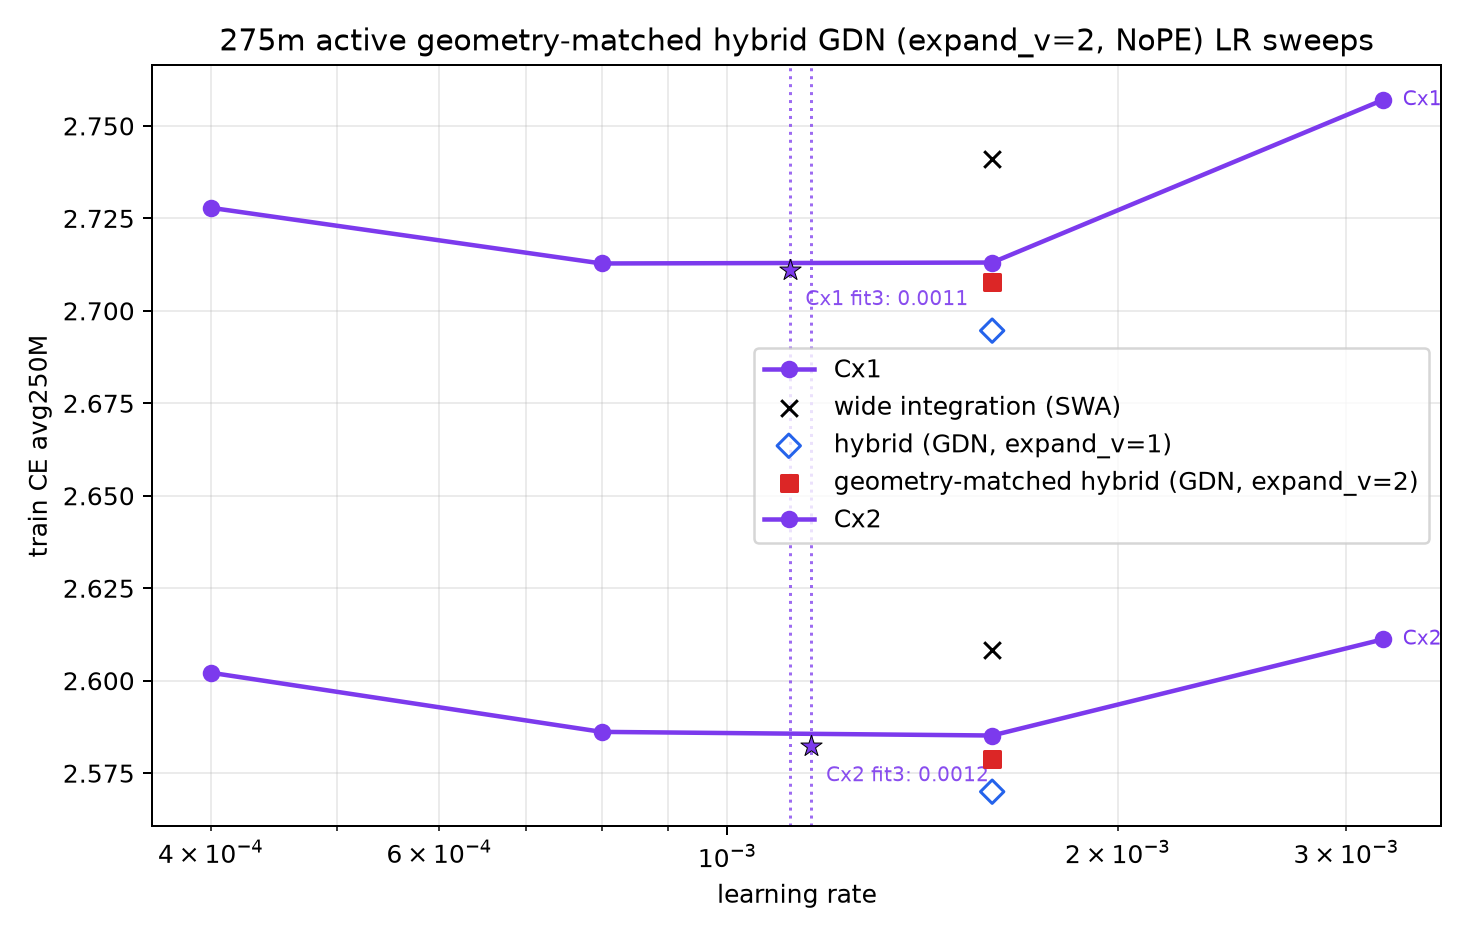
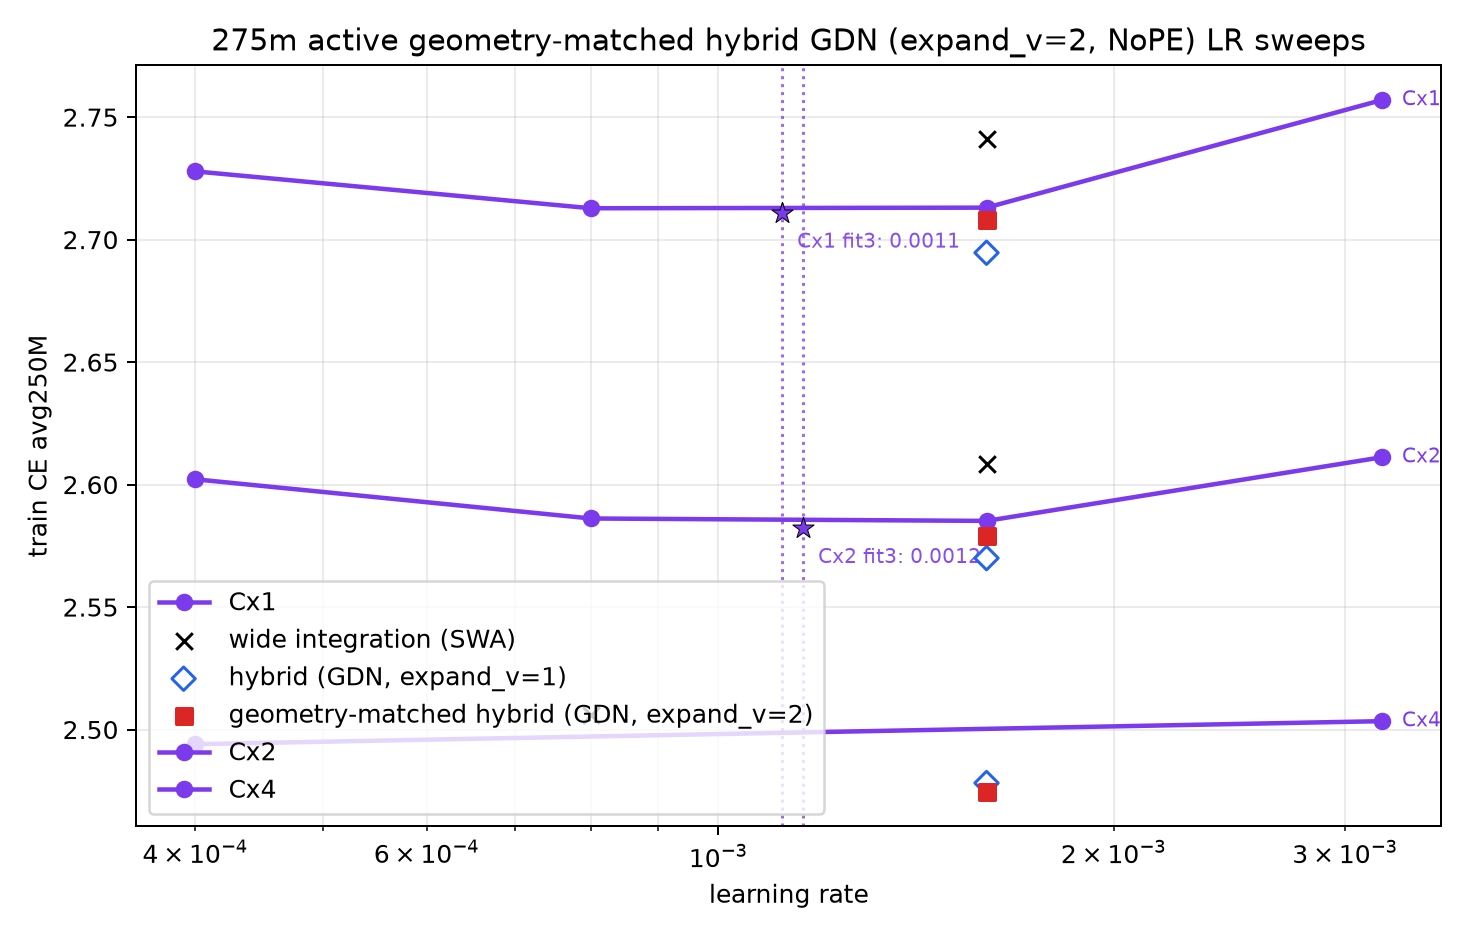
Record precision ablations and refresh NoPE results

diff --git a/src/scripts/train/jacobm_olmoe_ladder/v2/RUNS.md b/src/scripts/train/jacobm_olmoe_ladder/v2/RUNS.md
@@ -415,13 +415,14 @@ Cx1/2/4/8, requesting 80 B300s at full concurrency.
 The production sweep was submitted on 2026-07-18 as urgent unallocated work:
 [01KXSABHBX2Z4G1JFV8W1PN6AN](https://beaker.org/orgs/ai2/workspaces/OLMo-3-moe-experiments/work/01KXSABHBX2Z4G1JFV8W1PN6AN).
 
-Status at 2026-07-18 05:57 UTC: all 16 tasks started successfully and none
+Status at 2026-07-18 06:39 UTC: all 16 tasks started successfully and none
 failed. All eight Cx1/Cx2 runs are finished. Cx1's observed interior best is
 `8e-4` at strict final-250M CE `2.712805`; Cx2's is `1.6e-3` at
 `2.585179`. Against the otherwise-identical RoPE geometry family, these are
-`+0.004924` and `+0.006217` CE, respectively. The Cx4 runs are
-83.9-90.4% complete and Cx8 is 81.3-82.4%. The updated U-plot and
-observed-best summary are under
+`+0.004924` and `+0.006217` CE, respectively. Cx4 `4e-4` and `3.2e-3`
+finished at `2.494023` and `2.503428`; its two interior LRs are still running,
+so no observed or fitted optimum is valid yet. All four Cx8 runs are still
+running. The updated U-plot and observed-best summary are under
 [`plots/pretraining/geometry_gdn_ev2_nope/`](plots/pretraining/geometry_gdn_ev2_nope/).
 
 | Cx | LR | GPUs | MB | Accum | Job | W&B | Status |
@@ -434,10 +435,10 @@ observed-best summary are under
 | 2 | `8e-4` | 4 | 12 | 1 | [01KXSABJ2YNA80PFV3FHAKMRZK](https://beaker.org/orgs/ai2/workspaces/OLMo-3-moe-experiments/work/01KXSABHBX2Z4G1JFV8W1PN6AN?taskId=01KXSABHZEYSF5QY7MJP0DWCX9&jobId=01KXSABJ2YNA80PFV3FHAKMRZK) | [7u4epzt6](https://wandb.ai/ai2-llm/jacobm-olmoe-ladder/runs/7u4epzt6) | finished |
 | 2 | `1.6e-3` | 4 | 12 | 1 | [01KXSABJ68WBX4TVSTR56BVZ1A](https://beaker.org/orgs/ai2/workspaces/OLMo-3-moe-experiments/work/01KXSABHBX2Z4G1JFV8W1PN6AN?taskId=01KXSABJ34R4AE29AGHGXP65NN&jobId=01KXSABJ68WBX4TVSTR56BVZ1A) | [gjmz37ct](https://wandb.ai/ai2-llm/jacobm-olmoe-ladder/runs/gjmz37ct) | finished; observed best |
 | 2 | `3.2e-3` | 4 | 12 | 1 | [01KXSABJBS8QP3R5HEMG6JSWEN](https://beaker.org/orgs/ai2/workspaces/OLMo-3-moe-experiments/work/01KXSABHBX2Z4G1JFV8W1PN6AN?taskId=01KXSABJ6A8DE73DQ51KM26C6P&jobId=01KXSABJBS8QP3R5HEMG6JSWEN) | [xahm1pbt](https://wandb.ai/ai2-llm/jacobm-olmoe-ladder/runs/xahm1pbt) | finished |
-| 4 | `4e-4` | 4 | 16 | 1 | [01KXSABJFAQ0SMEQH6PR4Y8C19](https://beaker.org/orgs/ai2/workspaces/OLMo-3-moe-experiments/work/01KXSABHBX2Z4G1JFV8W1PN6AN?taskId=01KXSABJBWZE65DRH4M21WB0T9&jobId=01KXSABJFAQ0SMEQH6PR4Y8C19) | [pmfco9gy](https://wandb.ai/ai2-llm/jacobm-olmoe-ladder/runs/pmfco9gy) | running |
+| 4 | `4e-4` | 4 | 16 | 1 | [01KXSABJFAQ0SMEQH6PR4Y8C19](https://beaker.org/orgs/ai2/workspaces/OLMo-3-moe-experiments/work/01KXSABHBX2Z4G1JFV8W1PN6AN?taskId=01KXSABJBWZE65DRH4M21WB0T9&jobId=01KXSABJFAQ0SMEQH6PR4Y8C19) | [pmfco9gy](https://wandb.ai/ai2-llm/jacobm-olmoe-ladder/runs/pmfco9gy) | finished; final-250M CE `2.494023` |
 | 4 | `8e-4` | 4 | 16 | 1 | [01KXSABJKMVAAY3KZ7HDZ284M9](https://beaker.org/orgs/ai2/workspaces/OLMo-3-moe-experiments/work/01KXSABHBX2Z4G1JFV8W1PN6AN?taskId=01KXSABJFCB5F0HWX0BR2ZAENY&jobId=01KXSABJKMVAAY3KZ7HDZ284M9) | [k5mjm4ev](https://wandb.ai/ai2-llm/jacobm-olmoe-ladder/runs/k5mjm4ev) | running |
 | 4 | `1.6e-3` | 4 | 16 | 1 | [01KXSABJQM8P4QM4HNQBJP3CSV](https://beaker.org/orgs/ai2/workspaces/OLMo-3-moe-experiments/work/01KXSABHBX2Z4G1JFV8W1PN6AN?taskId=01KXSABJKP9QQNCAM9YT0NWRNP&jobId=01KXSABJQM8P4QM4HNQBJP3CSV) | [4x00n8lj](https://wandb.ai/ai2-llm/jacobm-olmoe-ladder/runs/4x00n8lj) | running |
-| 4 | `3.2e-3` | 4 | 16 | 1 | [01KXSABJVYPN084NPHSDR2QV95](https://beaker.org/orgs/ai2/workspaces/OLMo-3-moe-experiments/work/01KXSABHBX2Z4G1JFV8W1PN6AN?taskId=01KXSABJQPQRZSJSPTNMY0MRK5&jobId=01KXSABJVYPN084NPHSDR2QV95) | [z1lw0z2i](https://wandb.ai/ai2-llm/jacobm-olmoe-ladder/runs/z1lw0z2i) | running |
+| 4 | `3.2e-3` | 4 | 16 | 1 | [01KXSABJVYPN084NPHSDR2QV95](https://beaker.org/orgs/ai2/workspaces/OLMo-3-moe-experiments/work/01KXSABHBX2Z4G1JFV8W1PN6AN?taskId=01KXSABJQPQRZSJSPTNMY0MRK5&jobId=01KXSABJVYPN084NPHSDR2QV95) | [z1lw0z2i](https://wandb.ai/ai2-llm/jacobm-olmoe-ladder/runs/z1lw0z2i) | finished; final-250M CE `2.503428` |
 | 8 | `4e-4` | 8 | 12 | 1 | [01KXSABK0Y35G8W2EBSNT97JBS](https://beaker.org/orgs/ai2/workspaces/OLMo-3-moe-experiments/work/01KXSABHBX2Z4G1JFV8W1PN6AN?taskId=01KXSABJW0PR83WZ70FAB6W2H0&jobId=01KXSABK0Y35G8W2EBSNT97JBS) | [t76b5xjy](https://wandb.ai/ai2-llm/jacobm-olmoe-ladder/runs/t76b5xjy) | running |
 | 8 | `8e-4` | 8 | 12 | 1 | [01KXSABK5B78Z8CTT7944NDYAF](https://beaker.org/orgs/ai2/workspaces/OLMo-3-moe-experiments/work/01KXSABHBX2Z4G1JFV8W1PN6AN?taskId=01KXSABK10HX9VBTHCTKGHJ12P&jobId=01KXSABK5B78Z8CTT7944NDYAF) | [d29gx1x9](https://wandb.ai/ai2-llm/jacobm-olmoe-ladder/runs/d29gx1x9) | running |
 | 8 | `1.6e-3` | 8 | 12 | 1 | [01KXSABK8R6YKTP2JQB0VG0SWR](https://beaker.org/orgs/ai2/workspaces/OLMo-3-moe-experiments/work/01KXSABHBX2Z4G1JFV8W1PN6AN?taskId=01KXSABK5DR58R40YGF660FXPJ&jobId=01KXSABK8R6YKTP2JQB0VG0SWR) | [n8kkr1y8](https://wandb.ai/ai2-llm/jacobm-olmoe-ladder/runs/n8kkr1y8) | running |

diff --git a/src/scripts/train/jacobm_olmoe_ladder/v2/results/pretraining/geometry_gdn_ev2_nope/results.md b/src/scripts/train/jacobm_olmoe_ladder/v2/results/pretraining/geometry_gdn_ev2_nope/results.md
@@ -1,6 +1,6 @@
 # Geometry-matched NoPE active hybrid GDN intervention
 
-Generated: `2026-07-18T05:58:34.766541+00:00`
+Generated: `2026-07-18T06:39:29.701552+00:00`
 
 Selection metric: final `250M`-token mean training CE. Only finished runs are eligible.
 The optimal-LR summary includes only bracketed 275M sweeps with a valid quadratic fit.
@@ -13,7 +13,7 @@ Fitted LR minima in the 275M U-plot are visual aids and are never used to select
 |---|---:|---|---|---|---:|---|
 | 275m | Cx1 | LR sweep | complete | wide_integration: 2.741044 @ 0.0016; hybrid_gdn_ev1: 2.694642 @ 0.0016; geometry_gdn_ev2: 2.707881 @ 0.0016 | 2.712805 (0.0008) | wide_integration: -0.028239; hybrid_gdn_ev1: +0.018164; geometry_gdn_ev2: +0.004924 |
 | 275m | Cx2 | LR sweep | complete | wide_integration: 2.608295 @ 0.0016; hybrid_gdn_ev1: 2.569988 @ 0.0016; geometry_gdn_ev2: 2.578963 @ 0.0016 | 2.585179 (0.0016) | wide_integration: -0.023116; hybrid_gdn_ev1: +0.015191; geometry_gdn_ev2: +0.006217 |
-| 275m | Cx4 | LR sweep | provisional (0/4) | wide_integration: 2.506019 @ 0.0008; hybrid_gdn_ev1: 2.478165 @ 0.0016; geometry_gdn_ev2: 2.474631 @ 0.0016 | — | wide_integration: —; hybrid_gdn_ev1: —; geometry_gdn_ev2: — |
+| 275m | Cx4 | LR sweep | provisional (2/4) | wide_integration: 2.506019 @ 0.0008; hybrid_gdn_ev1: 2.478165 @ 0.0016; geometry_gdn_ev2: 2.474631 @ 0.0016 | 2.494023 (0.0004) | wide_integration: -0.011996; hybrid_gdn_ev1: +0.015857; geometry_gdn_ev2: +0.019392 |
 | 275m | Cx8 | LR sweep | provisional (0/4) | wide_integration: 2.419273 @ 0.0008; hybrid_gdn_ev1: 2.396380 @ 0.0016; geometry_gdn_ev2: 2.389857 @ 0.0008 | — | wide_integration: —; hybrid_gdn_ev1: —; geometry_gdn_ev2: — |
 
 ## Runs
@@ -54,6 +54,8 @@ Fitted LR minima in the 275M U-plot are visual aids and are never used to select
 | 275m | geometry-matched hybrid (GDN, expand_v=2) | 4 | 0.0008 | finished | 18.125 | 2.474632 | — | [gwve4pn6](https://wandb.ai/ai2-llm/jacobm-olmoe-ladder/runs/gwve4pn6) |
 | 275m | geometry-matched hybrid (GDN, expand_v=2) | 4 | 0.0016 | finished | 18.125 | 2.474631 | — | [hwjvw532](https://wandb.ai/ai2-llm/jacobm-olmoe-ladder/runs/hwjvw532) |
 | 275m | geometry-matched hybrid (GDN, expand_v=2) | 4 | 0.0032 | finished | 18.125 | 2.496382 | — | [hmjkig0r](https://wandb.ai/ai2-llm/jacobm-olmoe-ladder/runs/hmjkig0r) |
+| 275m | geometry-matched hybrid (GDN, expand_v=2, NoPE) | 4 | 0.0004 | finished | 18.125 | 2.494023 | — | [pmfco9gy](https://wandb.ai/ai2-llm/jacobm-olmoe-ladder/runs/pmfco9gy) |
+| 275m | geometry-matched hybrid (GDN, expand_v=2, NoPE) | 4 | 0.0032 | finished | 18.125 | 2.503428 | — | [z1lw0z2i](https://wandb.ai/ai2-llm/jacobm-olmoe-ladder/runs/z1lw0z2i) |
 | 275m | hybrid (GDN, expand_v=1) | 4 | 0.0004 | finished | 16.890 | 2.496429 | — | [socvue3a](https://wandb.ai/ai2-llm/jacobm-olmoe-ladder/runs/socvue3a) |
 | 275m | hybrid (GDN, expand_v=1) | 4 | 0.0008 | finished | 16.890 | 2.479545 | — | [xvk92054](https://wandb.ai/ai2-llm/jacobm-olmoe-ladder/runs/xvk92054) |
 | 275m | hybrid (GDN, expand_v=1) | 4 | 0.0016 | finished | 16.890 | 2.478165 | — | [uhw9wfed](https://wandb.ai/ai2-llm/jacobm-olmoe-ladder/runs/uhw9wfed) |

diff --git a/src/scripts/train/jacobm_olmoe_ladder/v2/NEXT_EXPERIMENTS.md b/src/scripts/train/jacobm_olmoe_ladder/v2/NEXT_EXPERIMENTS.md
@@ -12,9 +12,11 @@ wide v1 integration model.
 | 3 | NoPE | On the aligned-geometry recipe, remove RoPE only from global-attention layers and train from initialization. | 275M four-LR Cx1/2/4/8 sweep is running unallocated. All larger smokes passed and the 192-GPU production layout is selected; wait only for transferred LRs before launch. |
 | 4 | Full-attention gating, then exact head geometry | First add only the dense ladder's elementwise full-precision gate to the 275M NoPE model while retaining 8-Q/4-KV GQA. If useful, separately test the dense 8-Q/8-KV attention shape. | Isolated gated model and launchers are implemented but not launched; capacity smoke and LR-sweep launch await approval. |
 | 5 | Initialization | On the promoted control, change only initialization standard deviation from 0.01 to 0.02. | Optional/planned. |
-| 6 | LatentMoE | Add the coworker's LatentMoE implementation to the promoted hybrid recipe and test it as an isolated MoE intervention before composition. | Deferred until the coworker's implementation is available and verified in this branch. |
-| 7 | Combined 275M pilot | Combine only interventions whose isolated evidence is neutral-to-positive. | Blocked on isolated results. |
-| 8 | Promote combined recipe | Run the full pretraining ladder, then midtraining, then 8K-to-65K long-context adaptation. | Blocked on the combined pilot. |
+| 6 | Remove QK norm | On the promoted control, remove per-head RMSNorm from Q and K in global-attention layers only. Keep GDN's internal output norm and every other norm unchanged. | Deferred isolated architecture ablation. This intentionally departs from the dense ladder, which uses QK norm. |
+| 7 | FP8 training | Hold the promoted architecture fixed and compare an explicitly selected OLMo-core FP8 training mode against the BF16 control, recording loss, stability, memory, tokens/s, and TFLOPs/GPU. | Deferred precision/systems ablation; choose and smoke the exact FP8 mode after the architecture is stable. |
+| 8 | LatentMoE | Add the coworker's LatentMoE implementation to the promoted hybrid recipe and test it as an isolated MoE intervention before composition. | Deferred until the coworker's implementation is available and verified in this branch. |
+| 9 | Combined 275M pilot | Combine only interventions whose isolated evidence is neutral-to-positive. | Blocked on isolated results. |
+| 10 | Promote combined recipe | Run the full pretraining ladder, then midtraining, then 8K-to-65K long-context adaptation. | Blocked on the combined pilot. |
 
 ## Dense-hybrid alignment target
 
